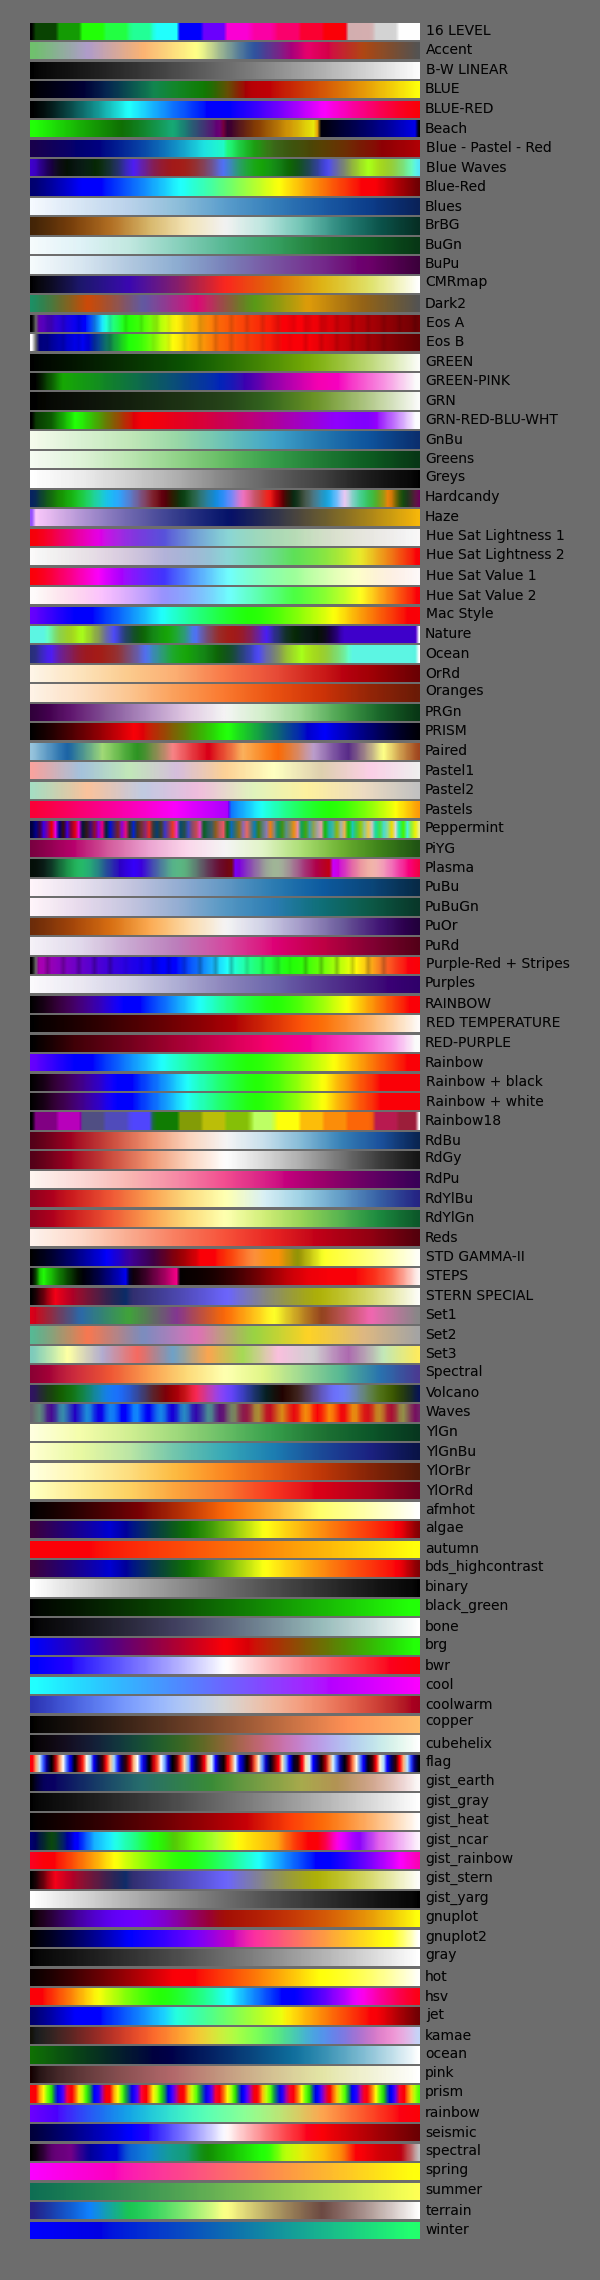
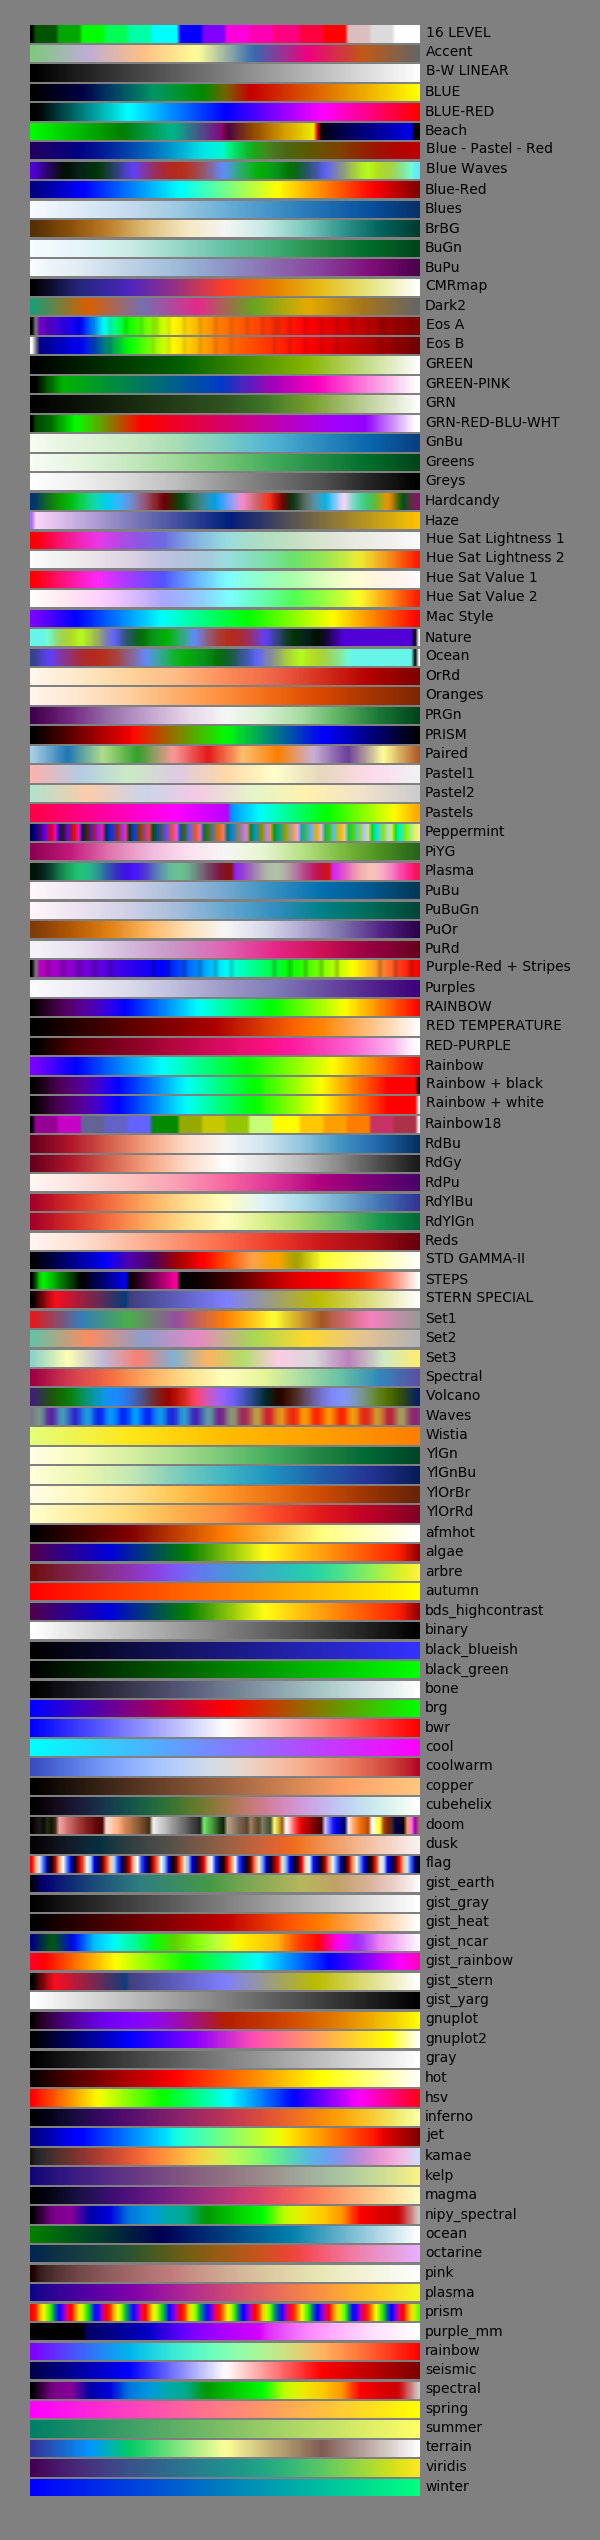
Switch from jet to dusk

diff --git a/yt/visualization/color_maps.py b/yt/visualization/color_maps.py
@@ -207,16 +207,17 @@ def show_colormaps(subset="all", filename=None):
         If filename is set, then it will save the colormaps to an output
         file.  If it is not set, it will "show" the result interactively.
     """
-    import pylab as pl
+    import matplotlib.pyplot as plt
+    import matplotlib.cm as cm
 
     a=np.outer(np.arange(0,1,0.01), np.ones(10))
     if subset == "all":
-        maps = [ m for m in pl.cm.datad if (not m.startswith("idl")) & (not m.endswith("_r"))]
+        maps = [ m for m in cm.cmap_d if (not m.startswith("idl")) & (not m.endswith("_r"))]
     elif subset == "yt_native":
         maps = [ m for m in _cm.color_map_luts if (not m.startswith("idl")) & (not m.endswith("_r"))]
     else:
         try:
-            maps = [ m for m in pl.cm.datad if m in subset]
+            maps = [ m for m in cm.cmap_d if m in subset]
             if len(maps) == 0:
                 raise AttributeError
         except AttributeError:
@@ -226,18 +227,18 @@ def show_colormaps(subset="all", filename=None):
     maps = list(set(maps))
     maps.sort()
     # scale the image size by the number of cmaps
-    pl.figure(figsize=(2.*len(maps)/10.,6))
-    pl.subplots_adjust(top=0.7,bottom=0.05,left=0.01,right=0.99)
+    plt.figure(figsize=(2.*len(maps)/10.,6))
+    plt.subplots_adjust(top=0.7,bottom=0.05,left=0.01,right=0.99)
     l = len(maps)+1
     for i,m in enumerate(maps):
-        pl.subplot(1,l,i+1)
-        pl.axis("off")
-        pl.imshow(a, aspect='auto',cmap=pl.get_cmap(m),origin="lower")      
-        pl.title(m,rotation=90, fontsize=10, verticalalignment='bottom')
+        plt.subplot(1,l,i+1)
+        plt.axis("off")
+        plt.imshow(a, aspect='auto',cmap=plt.get_cmap(m),origin="lower")      
+        plt.title(m,rotation=90, fontsize=10, verticalalignment='bottom')
     if filename is not None:
-        pl.savefig(filename, dpi=100, facecolor='gray') 
+        plt.savefig(filename, dpi=100, facecolor='gray') 
     else:  
-        pl.show()
+        plt.show()
 
 def make_colormap(ctuple_list, name=None, interpolate=True):
     """

diff --git a/doc/source/cookbook/colormaps.py b/doc/source/cookbook/colormaps.py
@@ -7,11 +7,11 @@ ds = yt.load("IsolatedGalaxy/galaxy0030/galaxy0030")
 p = yt.ProjectionPlot(ds, "z", "density", width=(100, 'kpc'))
 p.save()
 
-# Change the colormap to 'jet' and save again.  We must specify
+# Change the colormap to 'dusk' and save again.  We must specify
 # a different filename here or it will save it over the top of
 # our first projection.
-p.set_cmap(field="density", cmap='jet')
-p.save('proj_with_jet_cmap.png')
+p.set_cmap(field="density", cmap='dusk')
+p.save('proj_with_dusk_cmap.png')
 
 # Change the colormap to 'hot' and save again.
 p.set_cmap(field="density", cmap='hot')
